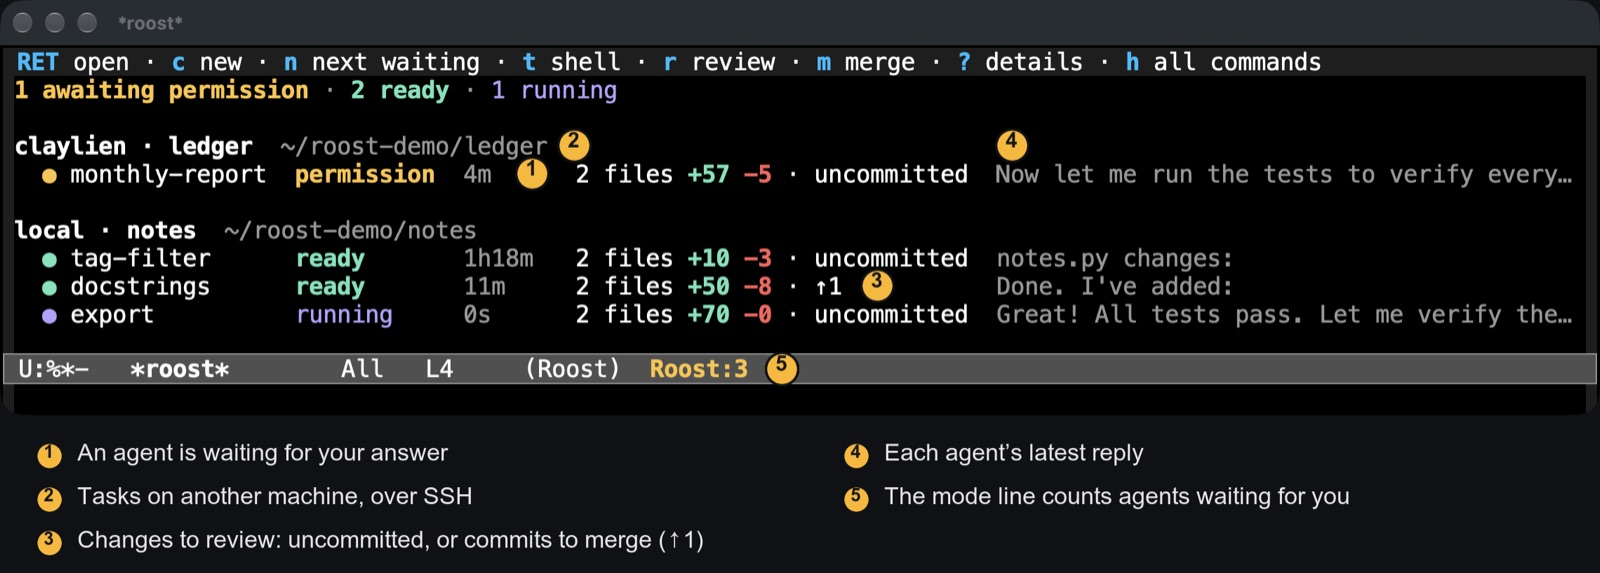
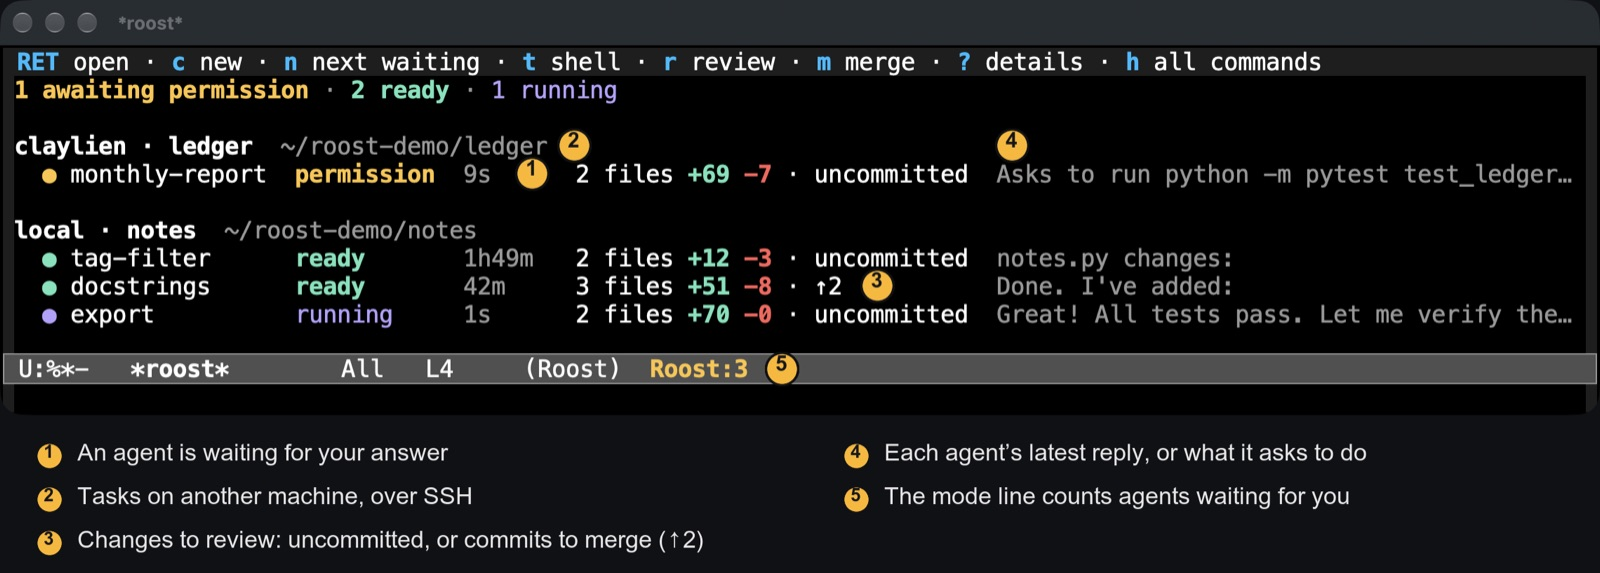
Show a permission request in the README's dashboard image

diff --git a/README.md b/README.md
@@ -80,7 +80,7 @@ the next one). `n` jumps to the next agent waiting for you, permission requests
 first. Answer it in the terminal, then `n` again. A finished agent you have
 looked at stops counting, and turns grey, until it replies again.
 
-![The Roost dashboard: four Claude Code tasks on two machines, one waiting for permission, two finished with changes to review, one working](docs/images/roost-dashboard.jpg)
+![The Roost dashboard: four Claude Code tasks on two machines, one asking to run its tests, two finished with changes to review, one working](docs/images/roost-dashboard.jpg)
 
 *`M-x roost-status`, the dashboard. `RET` on a row opens that agent's own
 terminal.*
